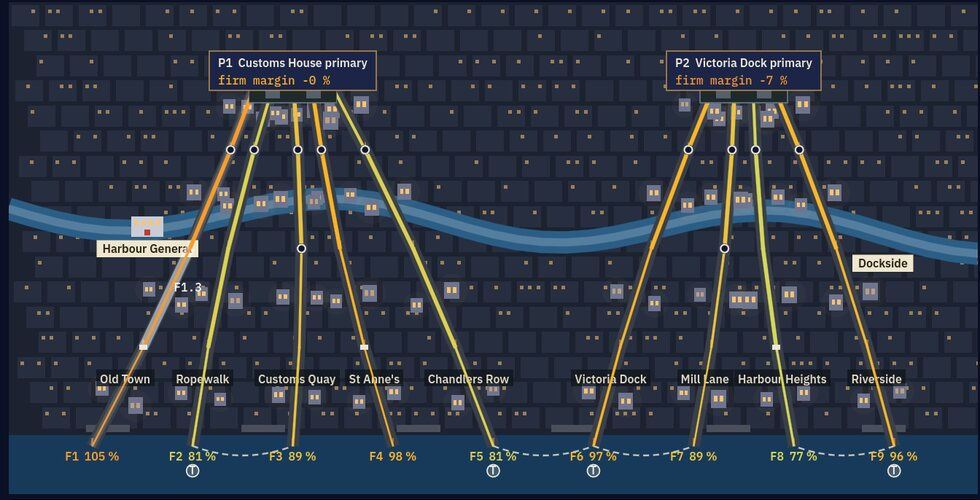
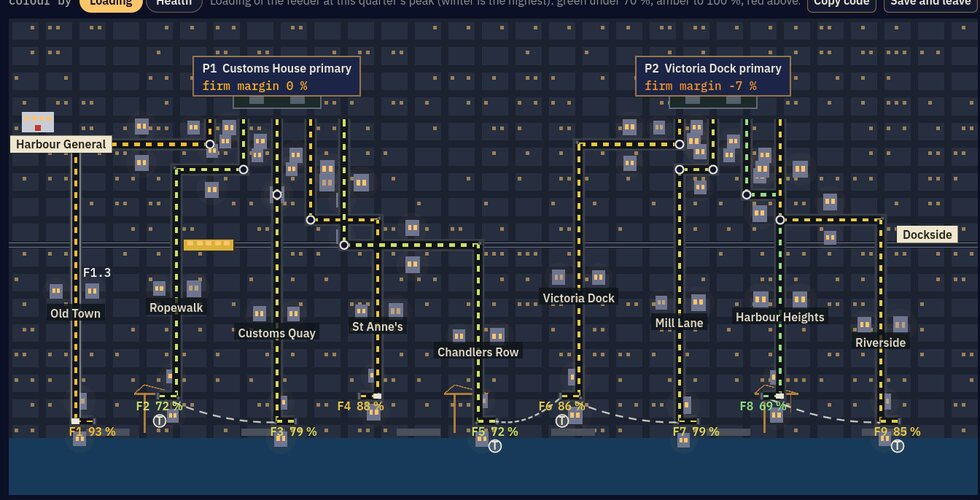
Wiki and site: owners, price-control close and overload terms from constants; new district map shots and captions
Claude-Session: https://claude.ai/code/session_01LLtMdbo6QrqLGE18L1gpTt

diff --git a/site/wiki/career.html b/site/wiki/career.html
@@ -22,7 +22,10 @@
 <dl class="terms">
 <dt>SAIDI</dt><dd>Minutes off per customer in a year: all the customer-minutes without power, divided by the customers.</dd>
 <dt>SAIFI</dt><dd>Power cuts per customer in a year: every customer interruption longer than five minutes (IEEE 1366), divided by the customers.</dd>
-<dt>Targets</dt><dd>The regulator pays or fines on the rolling three-year average against target. Every five years the targets reset to what your network should achieve. The licence goes only for a network that cannot meet its targets even in fair weather, three years running.</dd>
+<dt>Owners</dt><dd>At each annual review the owners take 60 % of the cash above the reserve ($3,810,000 plus 4 quarters of committed project instalments) as a dividend. Money you do not plan to spend does not stay.</dd>
+<dt>Price-control close</dt><dd>Every 5 years, if the network's average health ended below where the period started and the replacement money it was allowed (the asset base over its 40-year life) was not all spent, the regulator takes back the unspent part plus 2.5 %.</dd>
+<dt>Overload</dt><dd>Past its cyclic rating a line faults more and ages faster. Past 125 % of its rating at the season's peak it cannot carry the load at all: the control room cuts customers in 3-hour rota blocks, and those count in SAIDI and SAIFI.</dd>
+<dt>Targets</dt><dd>The regulator pays or fines on the rolling 3-year average against target. Every 5 years the targets reset to what your network should achieve. The licence goes only for a network that cannot meet its targets even in fair weather, 3 years running.</dd>
 </dl>
 <h2>The people</h2>
 <div class="story-grid">
@@ -41,11 +44,11 @@
 <article class="card district"><h3>Solar Valley</h3><p>Rooftop solar on every street and summer heatwaves: midday voltage runs high, and complaints cost six times as much.</p></article>
 <article class="card district"><h3>Lean Years</h3><p>An efficiency challenge: 4 % less revenue, 5 % less to run the network, and little cash to start. Cheap fixes first, and stay out of debt.</p></article>
 <article class="card district"><h3>Forest Line</h3><p>Lines through woodland: trees start much closer, and storms come more often. The tree-cutting budget matters.</p></article>
-<article class="card district"><h3>Harbour City</h3><p>Dense streets, all underground: cable faults are rare but take most of a day to find and joint. No trees, few storm faults. Ties and remote switching restore it; reclosers cannot.</p><figure class="shot"><img src="../assets/shots/harbour-city-map.jpg" alt="Harbour City: city blocks, the harbour and underground cable" width="980" height="500" loading="lazy"><figcaption>Harbour City: city blocks, the harbour and underground cable</figcaption></figure></article>
-<article class="card district"><h3>High Moor</h3><p>Long lines over open hills to farms and villages, snow and ice in winter. Most faults are transient: reclosers pay here. Watch the voltage at the far ends.</p><figure class="shot"><img src="../assets/shots/high-moor-map.jpg" alt="High Moor in winter: long lines, snow on the roofs" width="980" height="500" loading="lazy"><figcaption>High Moor in winter: long lines, snow on the roofs</figcaption></figure></article></div>
+<article class="card district"><h3>Harbour City</h3><p>Dense streets, all underground: cable faults are rare but take most of a day to find and joint. No trees, few storm faults. Ties and remote switching restore it; auto-reclose stays off on cable.</p><figure class="shot"><img src="../assets/shots/harbour-city-map.jpg" alt="Harbour City: cable routes along a street grid down to the harbour" width="980" height="500" loading="lazy"><figcaption>Harbour City: cable routes along a street grid down to the harbour</figcaption></figure></article>
+<article class="card district"><h3>High Moor</h3><p>Long lines over open hills to farms and villages, snow and ice in winter. One substation sits far up the moor, so its feeders start with a long trunk. Most faults are transient: reclosers pay here. Watch the voltage at the far ends.</p><figure class="shot"><img src="../assets/shots/high-moor-map.jpg" alt="High Moor: one substation far up the moor, long trunks down the valleys" width="980" height="500" loading="lazy"><figcaption>High Moor: one substation far up the moor, long trunks down the valleys</figcaption></figure></article></div>
 <h2>Projects</h2>
 <p>Each quarter you pick from a board. Every card shows what it does to expected SAIDI, loading and firm margin before you buy it.</p>
-<table class="ledger"><tr><th>Reconductor</th><td>A thicker wire on one section: less drop, less loss, more headroom, and a new asset.</td></tr><tr><th>New feeder</th><td>A new feeder out of the same primary takes half the customers of the feeder you pick.</td></tr><tr><th>New transformer</th><td>One more unit at a primary: firm capacity for the day a unit fails.</td></tr><tr><th>Tie to a neighbour</th><td>A normally-open tie lets the healthy part of the feeder be fed from next door during a fault.</td></tr><tr><th>Remote switch</th><td>The control room can open it in minutes instead of a crew in an hour.</td></tr><tr><th>Recloser</th><td>Clears passing faults (branches, lightning) without a sustained outage.</td></tr><tr><th>Deep tree clearance</th><td>One deep clearance of the corridor; trees cause many storm faults.</td></tr><tr><th>Storm hardening</th><td>Covered conductor, wider clearance and stronger poles on the exposed spans: storms fault this feeder far less.</td></tr><tr><th>Replace asset</th><td>A new line section, transformer or switchboard: health back to 10.</td></tr><tr><th>Voltage regulator</th><td>Holds the far end of a long feeder inside the voltage band.</td></tr><tr><th>Battery</th><td>Shaves the evening peak of one feeder.</td></tr><tr><th>Demand response</th><td>A contract: big users cut load at the peak. Paid every quarter, not an asset.</td></tr></table>
+<table class="ledger"><tr><th>Reconductor</th><td>A bigger conductor on one section (a thicker line, or a bigger cable under the street): less drop, less loss, more headroom, and a new asset.</td></tr><tr><th>New feeder</th><td>A new feeder out of the same primary takes half the customers of the feeder you pick.</td></tr><tr><th>New transformer</th><td>One more unit at a primary: firm capacity for the day a unit fails.</td></tr><tr><th>Tie to a neighbour</th><td>A normally-open tie lets the healthy part of the feeder be fed from next door during a fault.</td></tr><tr><th>Remote switch</th><td>The control room can open it in minutes instead of a crew in an hour.</td></tr><tr><th>Recloser</th><td>Clears passing faults (branches, lightning) without a sustained outage.</td></tr><tr><th>Deep tree clearance</th><td>One deep clearance of the corridor; trees cause many storm faults.</td></tr><tr><th>Storm hardening</th><td>Covered conductor, wider clearance and stronger poles on the exposed spans: storms fault this feeder far less.</td></tr><tr><th>Replace asset</th><td>A new line section, transformer or switchboard: health back to 10.</td></tr><tr><th>Voltage regulator</th><td>Holds the far end of a long feeder inside the voltage band.</td></tr><tr><th>Battery</th><td>Shaves the evening peak of one feeder.</td></tr><tr><th>Demand response</th><td>A contract: big users cut load at the peak. Paid every quarter, not an asset.</td></tr></table>
 <h2>How it ends</h2>
 <table class="ledger"><tr><th>Chief Engineer</th><td>Ten years done. Targets met in most years and the network is healthier than you found it: Chief Engineer.</td></tr><tr><th>Steady</th><td>Ten years done. The lights stayed on; the network got older. A steady career.</td></tr><tr><th>Bailed out</th><td>The company ran past its credit limit. The owners bailed it out and your career ends here.</td></tr><tr><th>Licence revoked</th><td>Three years in a row of heavy reliability fines on a network that could not meet its targets even in fair weather: the regulator revoked the licence.</td></tr></table>
 </main>

diff --git a/scripts/wiki.ts b/scripts/wiki.ts
@@ -4,8 +4,11 @@
 import { t } from '../src/i18n';
 import { LEVEL_SPECS } from '../src/level';
 import { LEVELS } from '../src/levels';
-import { CHARTER_IDS } from '../src/career/data';
+import { CHARTER_IDS, INCENTIVE, MONEY, OVERLOAD, OWNERS } from '../src/career/data';
 import { buildDistrict } from '../src/career/district';
+import { careerMoney } from '../src/career-game';
+import { formatMoney } from '../core/ts/regions';
+import { REGIONS } from '../src/regions';
 
 /** Chapter number → title (the job board's headings) and a real screenshot from docs/readme. */
 export const CHAPTERS: { n: number; title: string; intro: string; shot?: [string, string] }[] = [
@@ -24,6 +27,8 @@ export const CHAPTERS: { n: number; title: string; intro: string; shot?: [string
 const esc = (s: string): string => s.replace(/&/g, '&amp;').replace(/</g, '&lt;').replace(/>/g, '&gt;').replace(/"/g, '&quot;');
 /** A rendered string, or '' when it still carries a run-time {placeholder} (those need the player's own numbers). */
 const tx = (key: string, p?: Record<string, unknown>): string => { const s = t(key, p as Record<string, number>); return s === key || /\{[a-zA-Z]+\}/.test(s) ? '' : s; };
+/** Money as the game shows it in the default region pack (global, US$). */
+const money = (m: number): string => formatMoney(careerMoney({ region: 'global' }, m), REGIONS.get('global'), { decimals: 0 });
 const words = (slug: string): string => slug.replace(/-/g, ' ');
 
 function page(title: string, desc: string, body: string, crumbs: string): string {
@@ -108,8 +113,8 @@ const KINDS = ['reconductor', 'newFeeder', 'newTransformer', 'tieSwitch', 'remot
 const ENDINGS = ['chiefEngineer', 'steady', 'bailedOut', 'licenceRevoked'];
 const DISTRICT_SHOT: Record<string, [string, string]> = {
   standard: ['home-counties-map.jpg', 'Home Counties: fields, named villages, the hospital on its feeder'],
-  city: ['harbour-city-map.jpg', 'Harbour City: city blocks, the harbour and underground cable'],
-  moor: ['high-moor-map.jpg', 'High Moor in winter: long lines, snow on the roofs'],
+  city: ['harbour-city-map.jpg', 'Harbour City: cable routes along a street grid down to the harbour'],
+  moor: ['high-moor-map.jpg', 'High Moor: one substation far up the moor, long trunks down the valleys'],
 };
 
 function careerPage(): string {
@@ -126,7 +131,10 @@ function careerPage(): string {
 <dl class="terms">
 <dt>SAIDI</dt><dd>Minutes off per customer in a year: all the customer-minutes without power, divided by the customers.</dd>
 <dt>SAIFI</dt><dd>Power cuts per customer in a year: every customer interruption longer than five minutes (IEEE 1366), divided by the customers.</dd>
-<dt>Targets</dt><dd>The regulator pays or fines on the rolling three-year average against target. Every five years the targets reset to what your network should achieve. The licence goes only for a network that cannot meet its targets even in fair weather, three years running.</dd>
+<dt>Owners</dt><dd>At each annual review the owners take ${Math.round(OWNERS.payout * 100)} % of the cash above the reserve (${money(OWNERS.reserveM)} plus ${OWNERS.reserveQuarters} quarters of committed project instalments) as a dividend. Money you do not plan to spend does not stay.</dd>
+<dt>Price-control close</dt><dd>Every ${INCENTIVE.periodYears} years, if the network's average health ended below where the period started and the replacement money it was allowed (the asset base over its ${MONEY.lifeYears}-year life) was not all spent, the regulator takes back the unspent part plus ${OWNERS.narmPenaltyPct} %.</dd>
+<dt>Overload</dt><dd>Past its cyclic rating a line faults more and ages faster. Past ${OVERLOAD.emergencyPct} % of its rating at the season's peak it cannot carry the load at all: the control room cuts customers in ${OVERLOAD.rotaBlockH}-hour rota blocks, and those count in SAIDI and SAIFI.</dd>
+<dt>Targets</dt><dd>The regulator pays or fines on the rolling ${INCENTIVE.rollingYears}-year average against target. Every ${INCENTIVE.periodYears} years the targets reset to what your network should achieve. The licence goes only for a network that cannot meet its targets even in fair weather, ${INCENTIVE.yearsToRevoke} years running.</dd>
 </dl>
 <h2>The people</h2>\n${storyHtml('../')}\n<h2>Districts</h2>
 <p>A career starts in one district. Each pushes a different pressure, and its targets come from its own expected performance, so every one can be won, though not with the same plan. Each ISO week also has one district and seed, the same for everyone.</p>

diff --git a/site/index.html b/site/index.html
@@ -167,8 +167,8 @@
     </div>
     <div class="districts">
       <figure><img src="assets/shots/home-counties-map.jpg" alt="Home Counties: fields, named villages and the hospital on its feeder" width="980" height="500" loading="lazy"><figcaption><b>Home Counties</b> Balanced: fields, villages, the hospital on F1.</figcaption></figure>
-      <figure><img src="assets/shots/harbour-city-map.jpg" alt="Harbour City: city blocks along the harbour, all underground cable" width="980" height="500" loading="lazy"><figcaption><b>Harbour City</b> All underground: rare faults that take a day. Ties pay, reclosers don't.</figcaption></figure>
-      <figure><img src="assets/shots/high-moor-map.jpg" alt="High Moor in winter: long lines over the hills, snow on the roofs" width="980" height="500" loading="lazy"><figcaption><b>High Moor</b> Long lines, winter storms, mostly passing faults. Reclosers pay.</figcaption></figure>
+      <figure><img src="assets/shots/harbour-city-map.jpg" alt="Harbour City: cable routes along a street grid down to the harbour, cranes on the quays and a tram on the high street" width="980" height="500" loading="lazy"><figcaption><b>Harbour City</b> A street grid of underground cable: rare faults that take a day. Ties pay; auto-reclose stays off.</figcaption></figure>
+      <figure><img src="assets/shots/high-moor-map.jpg" alt="High Moor: one primary by the villages and one far up the moor, its feeders running long trunks down the valleys" width="980" height="500" loading="lazy"><figcaption><b>High Moor</b> One substation far up the moor, long trunks down the valleys, winter storms. Reclosers pay.</figcaption></figure>
     </div>
   </div>
 </section>
